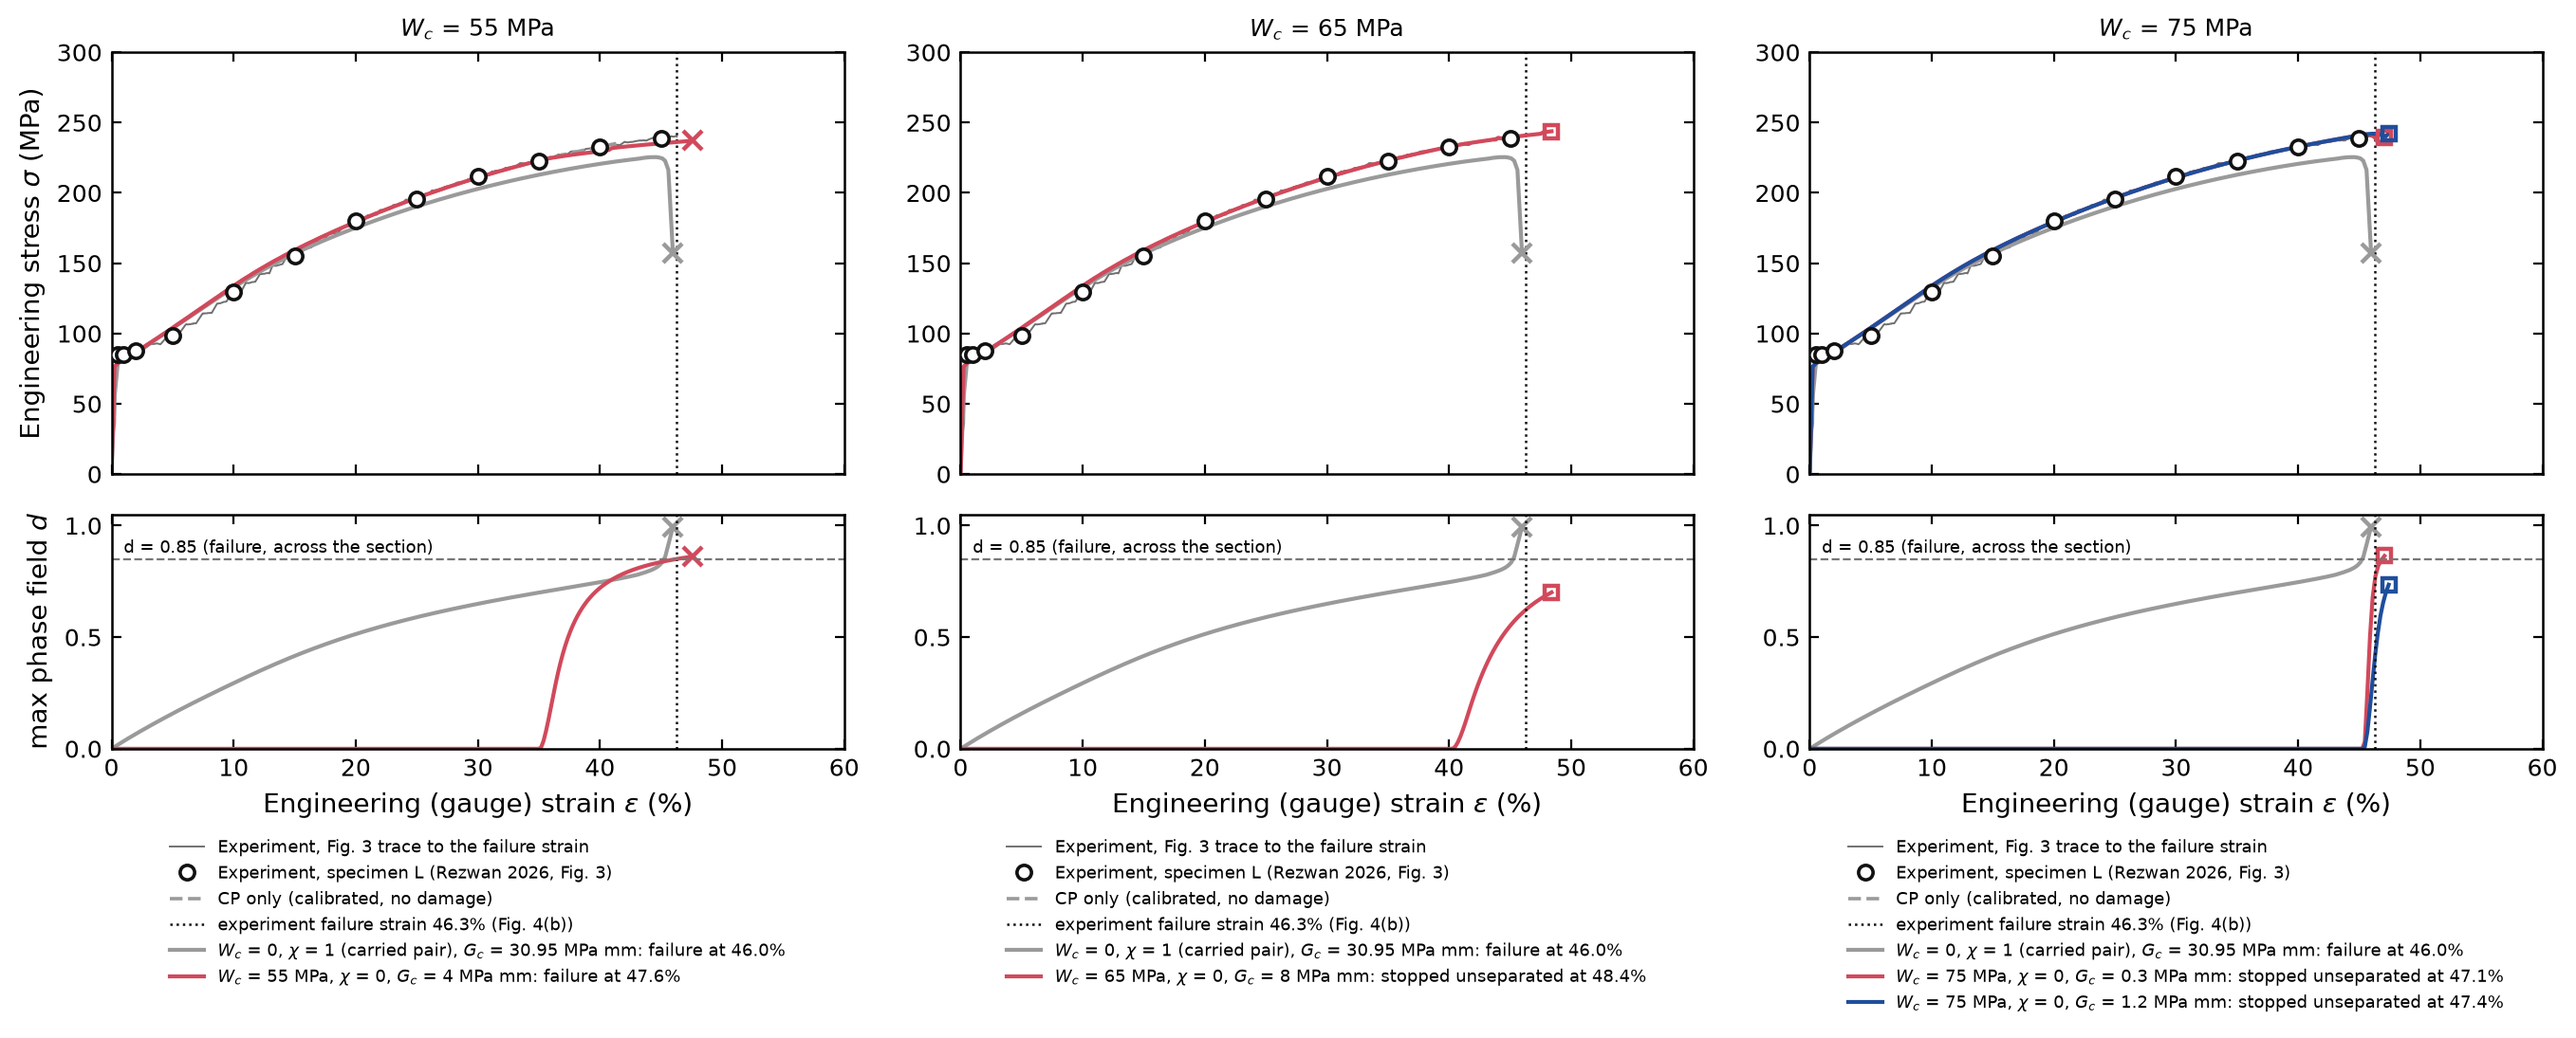
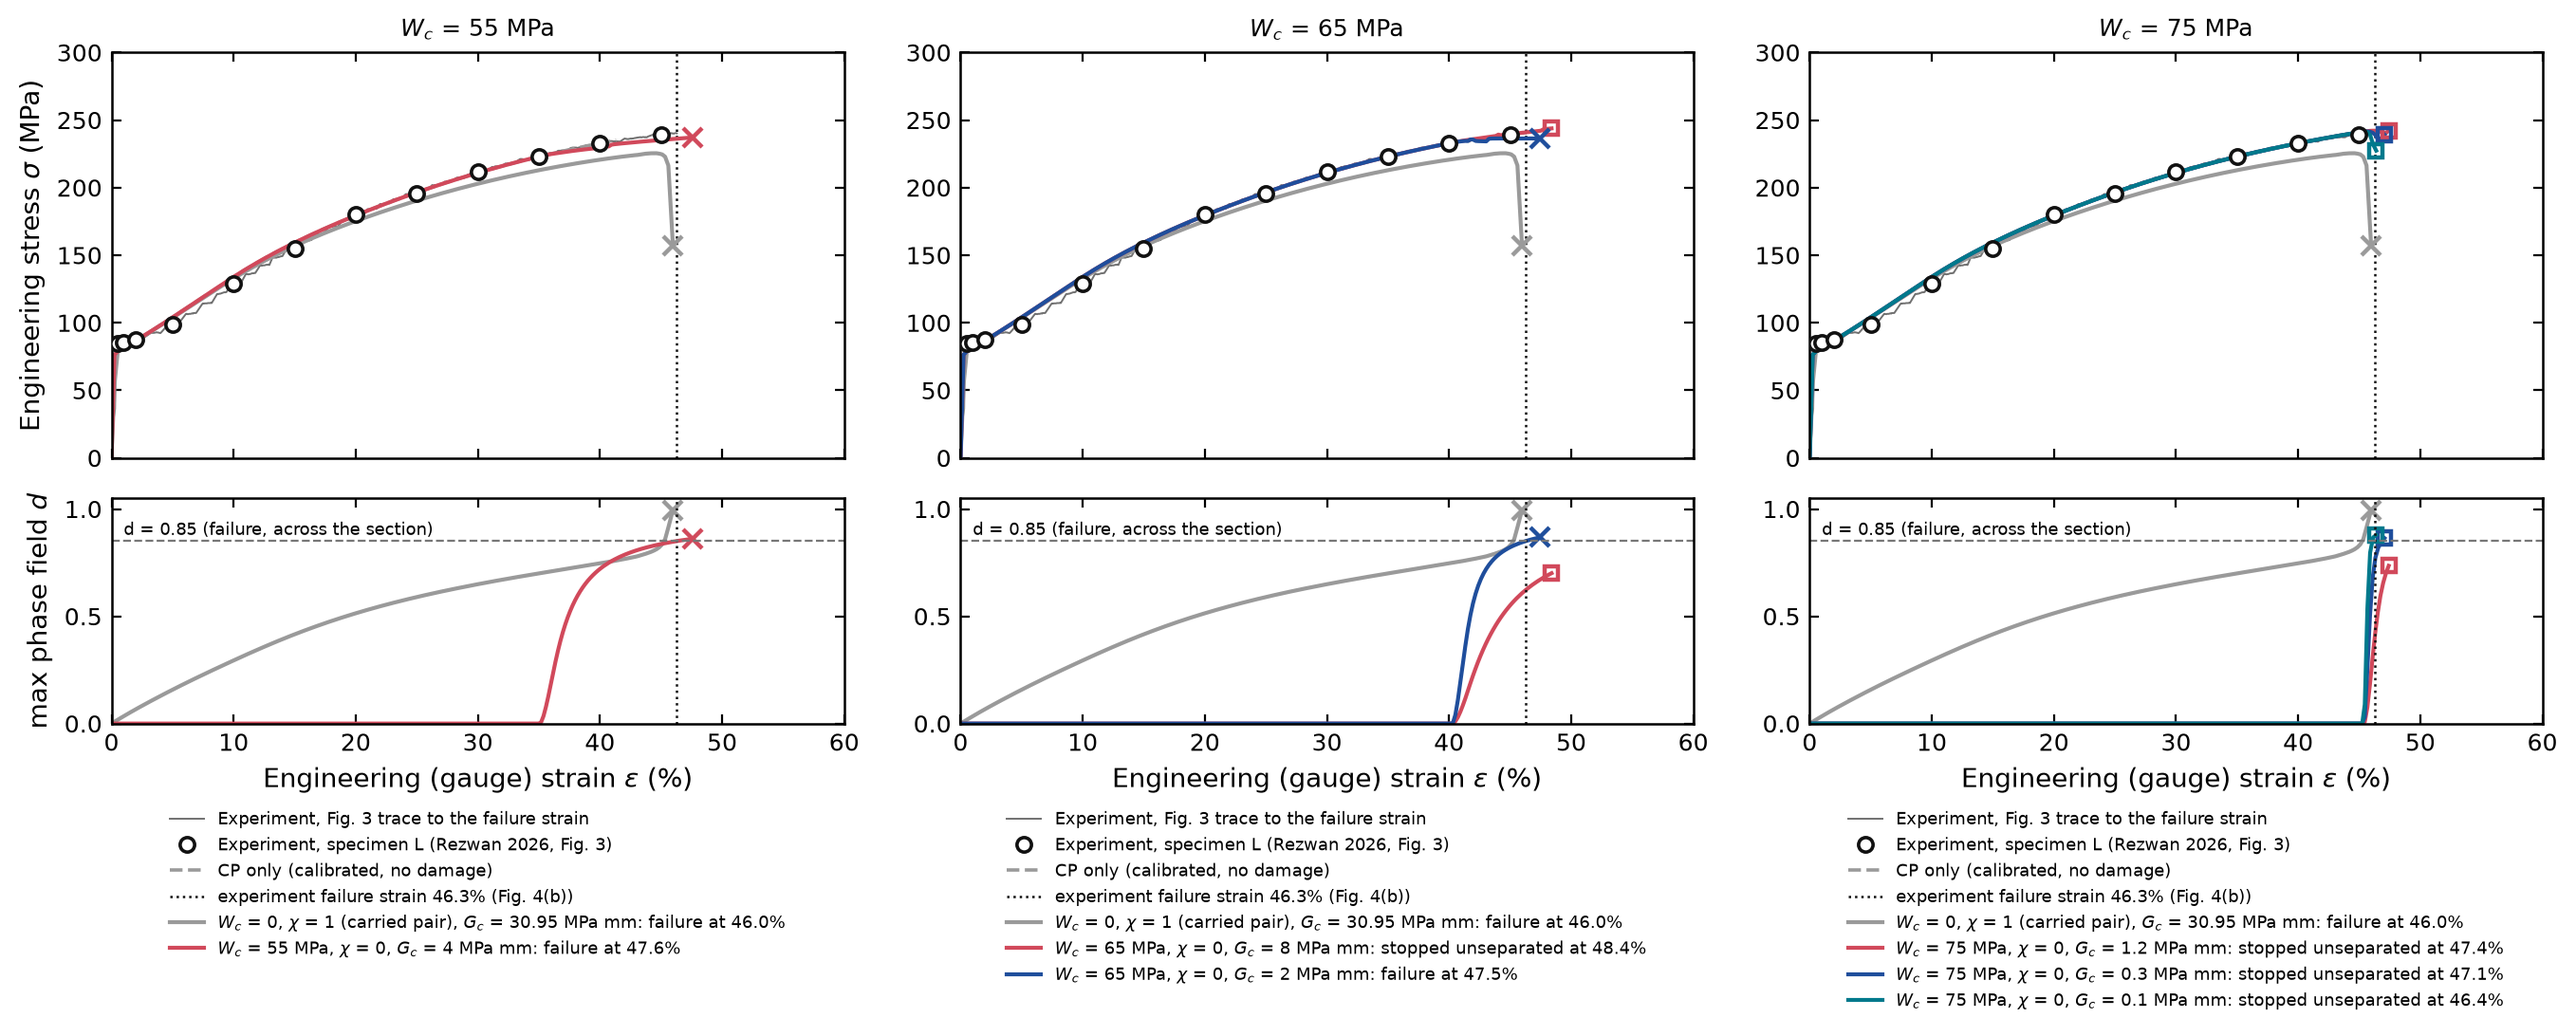
Ni W_c stage, chi = 0: W_c 65 / G_c 2 separates at 0.475 (58 deg flank); W_c 75 / G_c 0.1 cracks at the target but the mechanics stops one step short of separation; W_c 75 driver stopped; figures redrawn; notebook, ledger

diff --git a/docs/run_ledger.md b/docs/run_ledger.md
@@ -101,7 +101,7 @@ and what it returned in one line.
 | ni-cal-h020-gn2-k1-cgroup | 2026-10-18 13:00-17:14 | `results/ni_study/cal_h020/gn2/k1_p/specimen.i` | `ni_specimen.py run`, `curve` (cgroup cap) | be71f84 / PINNACLE 9f31bb0 | rocm / 2 threads, 16 GB resident cap | 4.2 h | cutback budget spent at step 231 (43.0% gauge); BE fallback at step 234 -> 16 GB in 17 s -> oom-kill (exit -9). Curve to 43.0% kept (author); GN summary unchanged | k_m OAT curve | 12 §5.1 |
 | ni-mesh-L1-h020set | 2026-10-18 08:35 - 2026-10-19 04:14 (h010 curve end) | `decks/ni/cp/h020/mesh_L1.i` (h040, h010, h020z2; h020 = calibrated run) | `ni_study.py` | study / PINNACLE 9f31bb0 | rocm / 2 + 8 + 4 threads, address-space caps 16 / 24 / 16 GB | h040 done; h010 ~1 day | h040 finished. h020z2 VOID: hit the cap at step 36 in tangent assembly, every retry failed (kept in `h020z2/failed_ascap/`). h010 curve to 47.1% gauge (budget spent at step 243, 23 h, 11 GB resident; process left running for its field snapshots). Results docs/12 §5.2 | docs/12 §5, §5.1 | 12 §5 |
 | ni-mesh-L1-h020z2-cgroup | 2026-10-18 13:00-21:17 | `results/ni_study/mesh_study/L1_h020set/h020z2/specimen.i` | `ni_specimen.py run`, `curve` (cgroup cap) | be71f84 / PINNACLE 9f31bb0 | rocm / 4 threads, 16 GB resident cap | 8.3 h | cutback budget spent at step 226 (44.0% gauge, 238 converged steps); BE fallback -> oom-kill (exit -9). Curve to 44.0% | two-layer h020 of the mesh study | 12 §5.1 |
-| ni-pfd-wc-chi0-L1-h020 | 2026-10-22 07:20 - (running) | `decks/ni/pfd/wc{55,65,75}_chi0_L1_h020.i` (l0 0.6, chi 0, W_c 55 / 65 / 75, first G_c 4/16, 2/8, 0.3/1.2) | `ni_pfd_calibrate.py` -> `ni_specimen.py` (curve: mechanics_failure_cut rule) | study / PINNACLE e7fd0d2 | rocm / 6 x 2 threads, 16 GB resident cap each | ~6 h per run | - | W_c stage, second round: purely ductile driving force (author's go-ahead 2026-10-22) | 12 §6.4 |
+| ni-pfd-wc-chi0-L1-h020 | 2026-10-22 07:20 - (running; W_c 75 driver stopped 2026-10-23 00:40 after G_c 0.1, its G_c 0.033 run left to finish) | `decks/ni/pfd/wc{55,65,75}_chi0_L1_h020.i` (l0 0.6, chi 0, W_c 55 / 65 / 75, first G_c 4/16, 2/8, 0.3/1.2) | `ni_pfd_calibrate.py` -> `ni_specimen.py` (curve: mechanics_failure_cut rule) | study / PINNACLE e7fd0d2 | rocm / 6 x 2 threads, 16 GB resident cap each | ~6 h per run | - | W_c stage, second round: purely ductile driving force (author's go-ahead 2026-10-22) | 12 §6.4 |
 | ni-pfd-wc-L1-h020 | 2026-10-21 20:10 - 2026-10-22 06:31 | `decks/ni/pfd/wc{55,65,75}_L1_h020.i` (base `base_L1_h020.i`; l0 0.6, W_c 55 / 65 / 75 MPa, first G_c 4/16, 2/8, 0.3/1.2) | `ni_pfd_calibrate.py` -> `ni_specimen.py` | c17ac63 / PINNACLE a514d66 | rocm / 6 x 2 threads, 16 GB resident cap each | 0.3-10 h per run | W_c 75: G_c 0.3 cracked the fillet at 3.7%, 1.2 died there at 9.2%; W_c 65: G_c 2 cracked the fillet at 13.8%, G_c 8 reached 45.8% (max d 0.998 at the fillet, mechanics failed one step short of separation; curve within 1-2% of the experiment to 40%); W_c 55: G_c 4 died at 12.2%, G_c 16 no failure by 48.0% (curve on the experiment, 241 MPa peak; d < 0.1 to 30%, 0.71 at 48%). All three searches stopped (undecided runs) | W_c stage, first round (chi = 1): the trend, and the elastic barrier at the fillets | 12 §6.3 |
 | ni-pfd-cal-L1-h020-l12 | 2026-10-20 22:20 - 2026-10-21 04:17 | `decks/ni/pfd/cal_L1_h020_l12.i` (one run, l0 1.2, G_c 61.1) | `ni_pfd_calibrate.py` -> `ni_specimen.py` | study / PINNACLE e2f4e94 | rocm / 2 threads, 16 GB resident cap | 6.0 h | failure 0.472 at 0.32 of the gage, max d 0.88 at separation; curve within 0.3% of l0 0.8 | l0/h = 6 plateau check at G_c / l0 = 50.9 MPa (author's option 1) | 12 §6.2 |
 | ni-pfd-cal-L1-h020-l04-gc21 | 2026-10-20 21:55 - 2026-10-21 04:26 | `decks/ni/pfd/cal_L1_h020_l04_gc21.i` (one run, l0 0.4, G_c 21.1) | `ni_pfd_calibrate.py` -> `ni_specimen.py` | study / PINNACLE e2f4e94 | rocm / 2 threads, 16 GB resident cap | 6.6 h | failure 0.461 at 0.17 of the gage (hit) | l0 0.4 bracket 20.17/22, interpolated in ln G_c | 12 §6.2 |

diff --git a/docs/12_ni_study.md b/docs/12_ni_study.md
@@ -685,3 +685,17 @@ d = 2H / (G_c / l0 + 2H) means a sharp cut needs H = W_p - W_c well above G_c / 
 plastic work beyond W_c reaches only ~2.5 MPa by 47%, so G_c / l0 must be a few tenths of a MPa
 (G_c ~ 0.1-0.2) for d -> 1 in the gage within one or two steps.
 
+chi = 0, second results (2026-10-23 00:40). W_c 65 / G_c 2 separated at 0.475 at 0.41 of the gage
+with the flank at 58 deg (the experiment: 0.20, 55-60 deg); W_c 75 / G_c 0.1 cracked at the target:
+d 0 -> 0.09 -> 0.54 -> 0.80 -> 0.87 -> 0.88 over steps 236-241 (45.2 -> 46.4%), the load fell from
+241.5 to 227 MPa, 32 then 60 nodes above 0.85, and step 242 spent the ten cutbacks (dt halved
+to 2e-5 s) before the zone spanned the section: a mechanics failure at 0.4639 with max d 0.909.
+The driver read it as "no failure", judged G_c too high and started G_c 0.033; that driver was
+stopped (the run continues to its end for the record) because a lower G_c only repeats the
+mechanics stop. The cut rule (max d > 0.99) does not fire at 0.909. Proposed to the author: a
+run whose mechanics fails while max d >= 0.85 and the load has dropped by more than 3% from its
+peak counts as failed at its last converged strain (`cut_damage` 0.85 plus a load-drop test);
+then W_c 75 / G_c 0.1 fails at 0.464, the target. Figures redrawn
+(`pfd_curves_L1_wc_chi0.i`: 55 / 4, 65 / 8 and 2, 75 / 1.2, 0.3, 0.1; shapes: 55 / 4, 65 / 2, 75 / 0.1
+and 0.3; the 75 / 0.1 field is its last snapshot, step 240 at 46.1%, before the last two steps).
+
